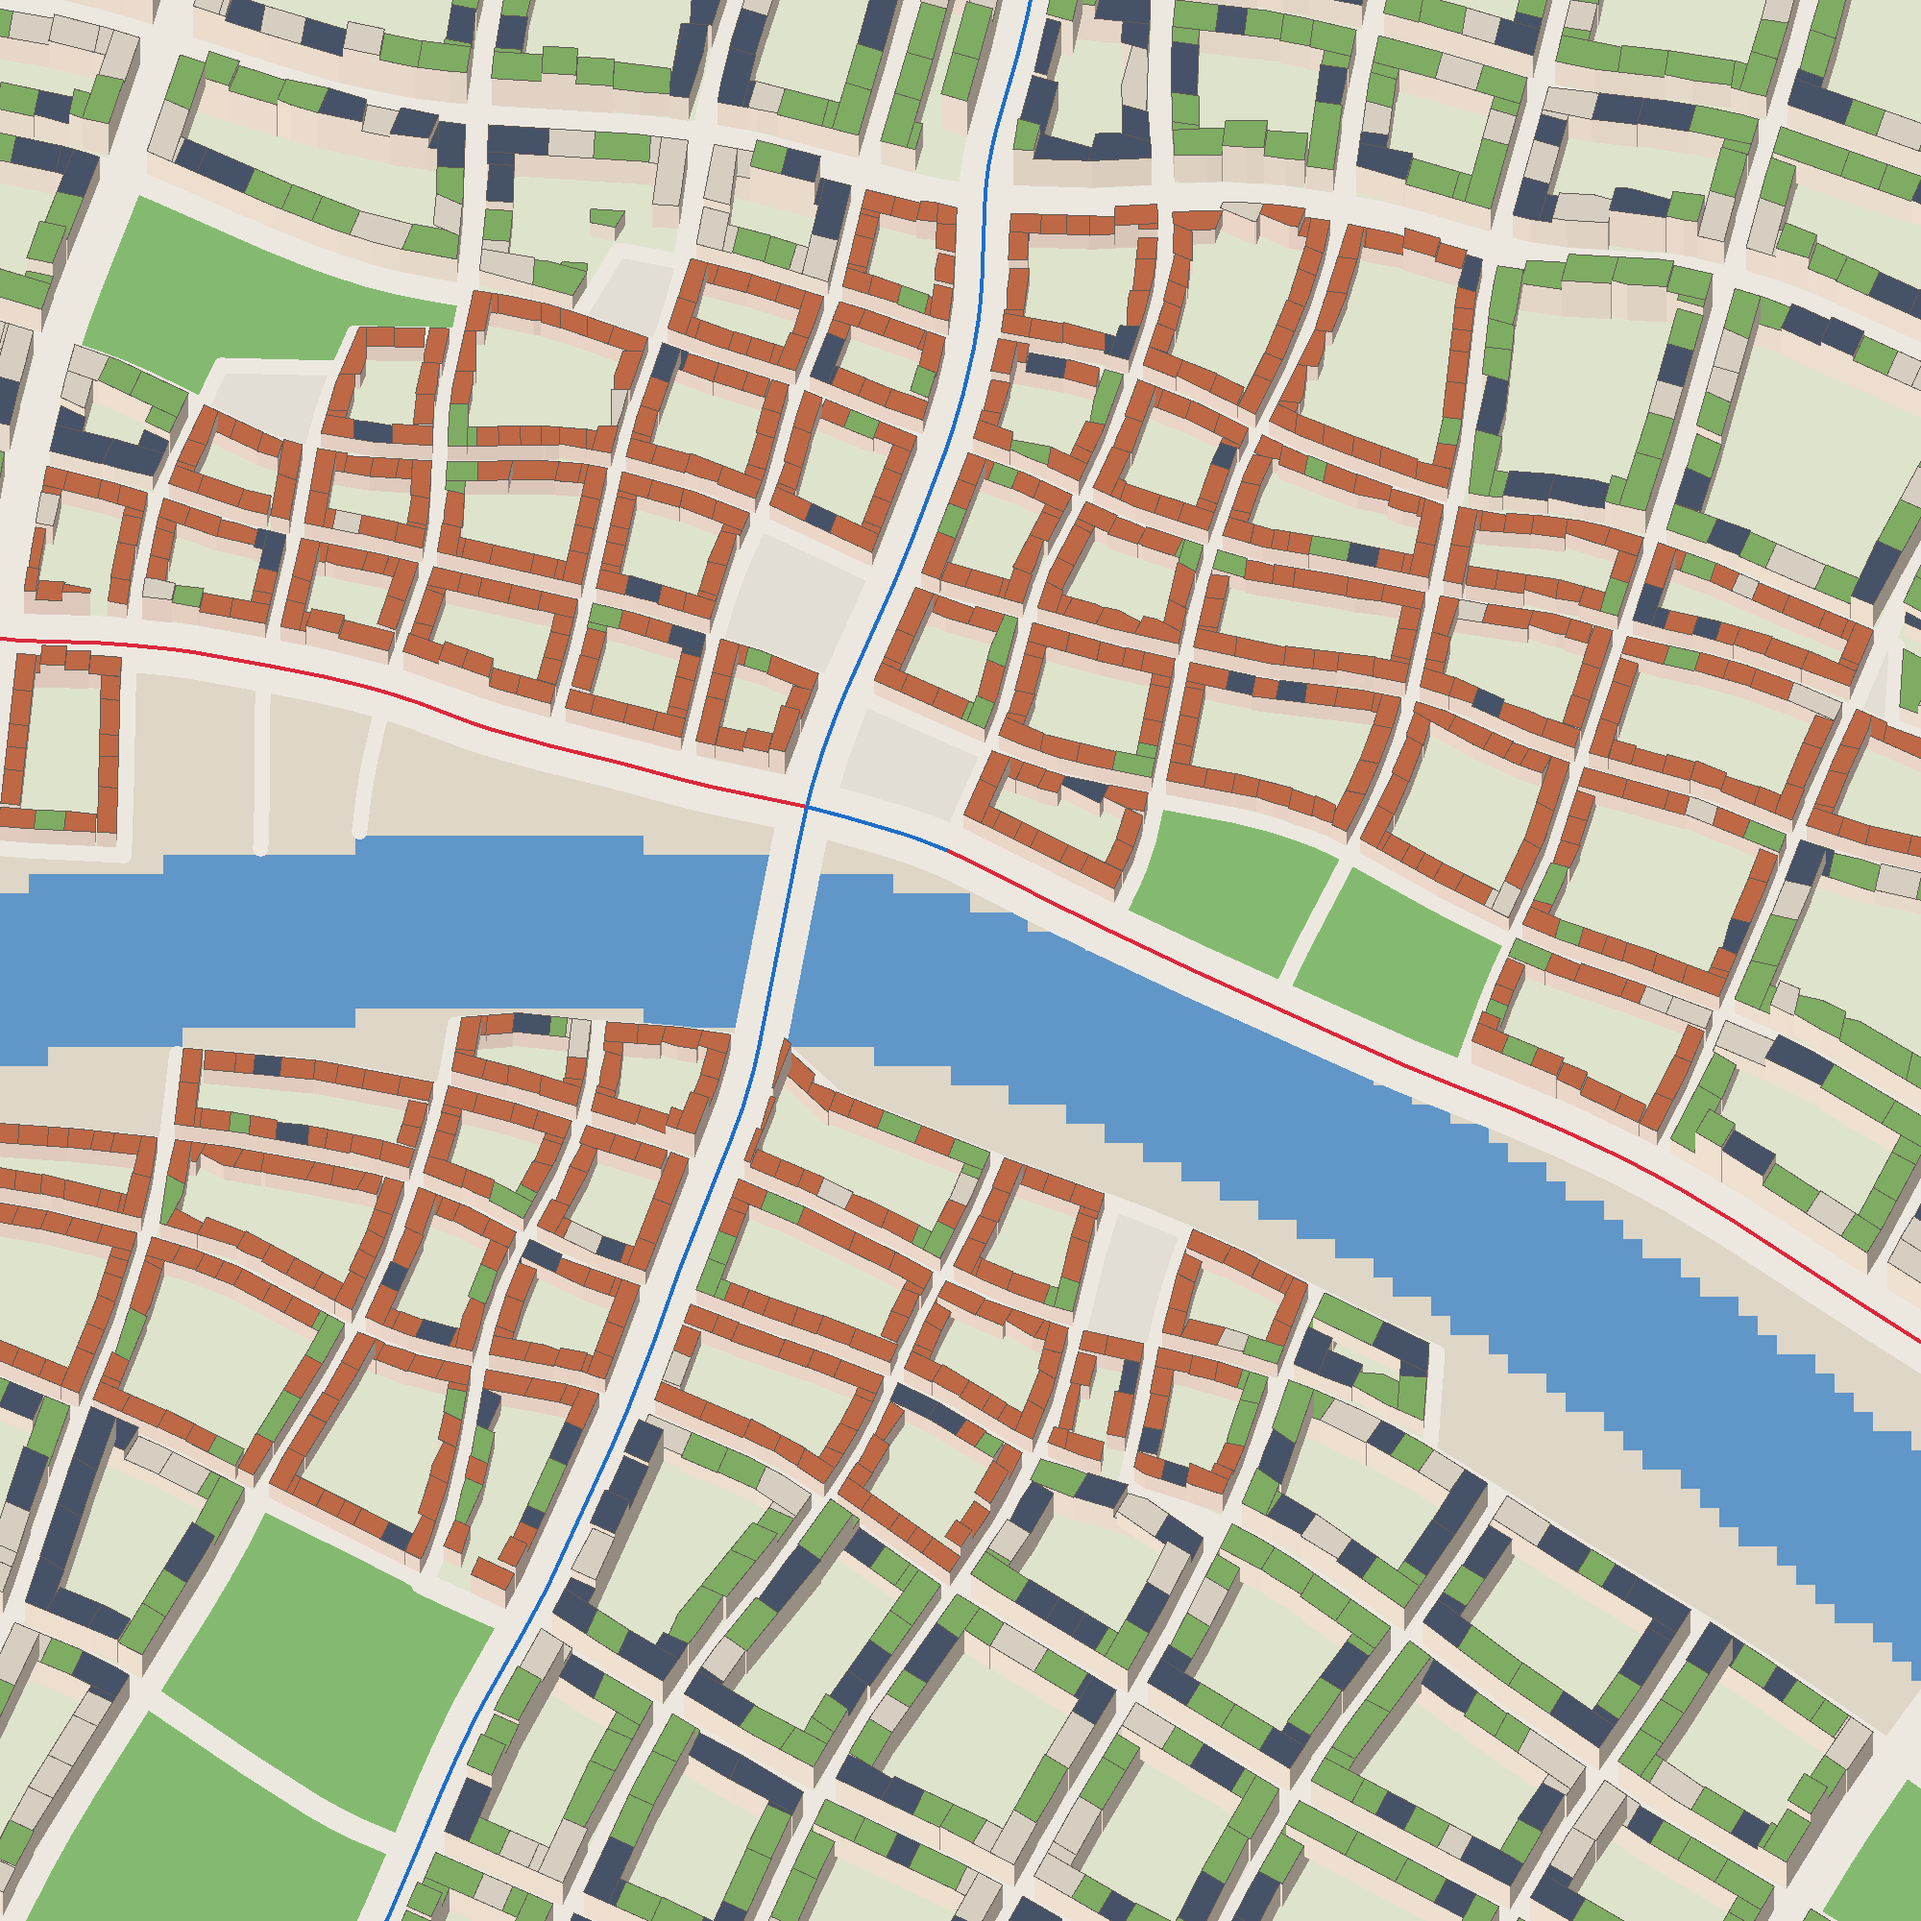
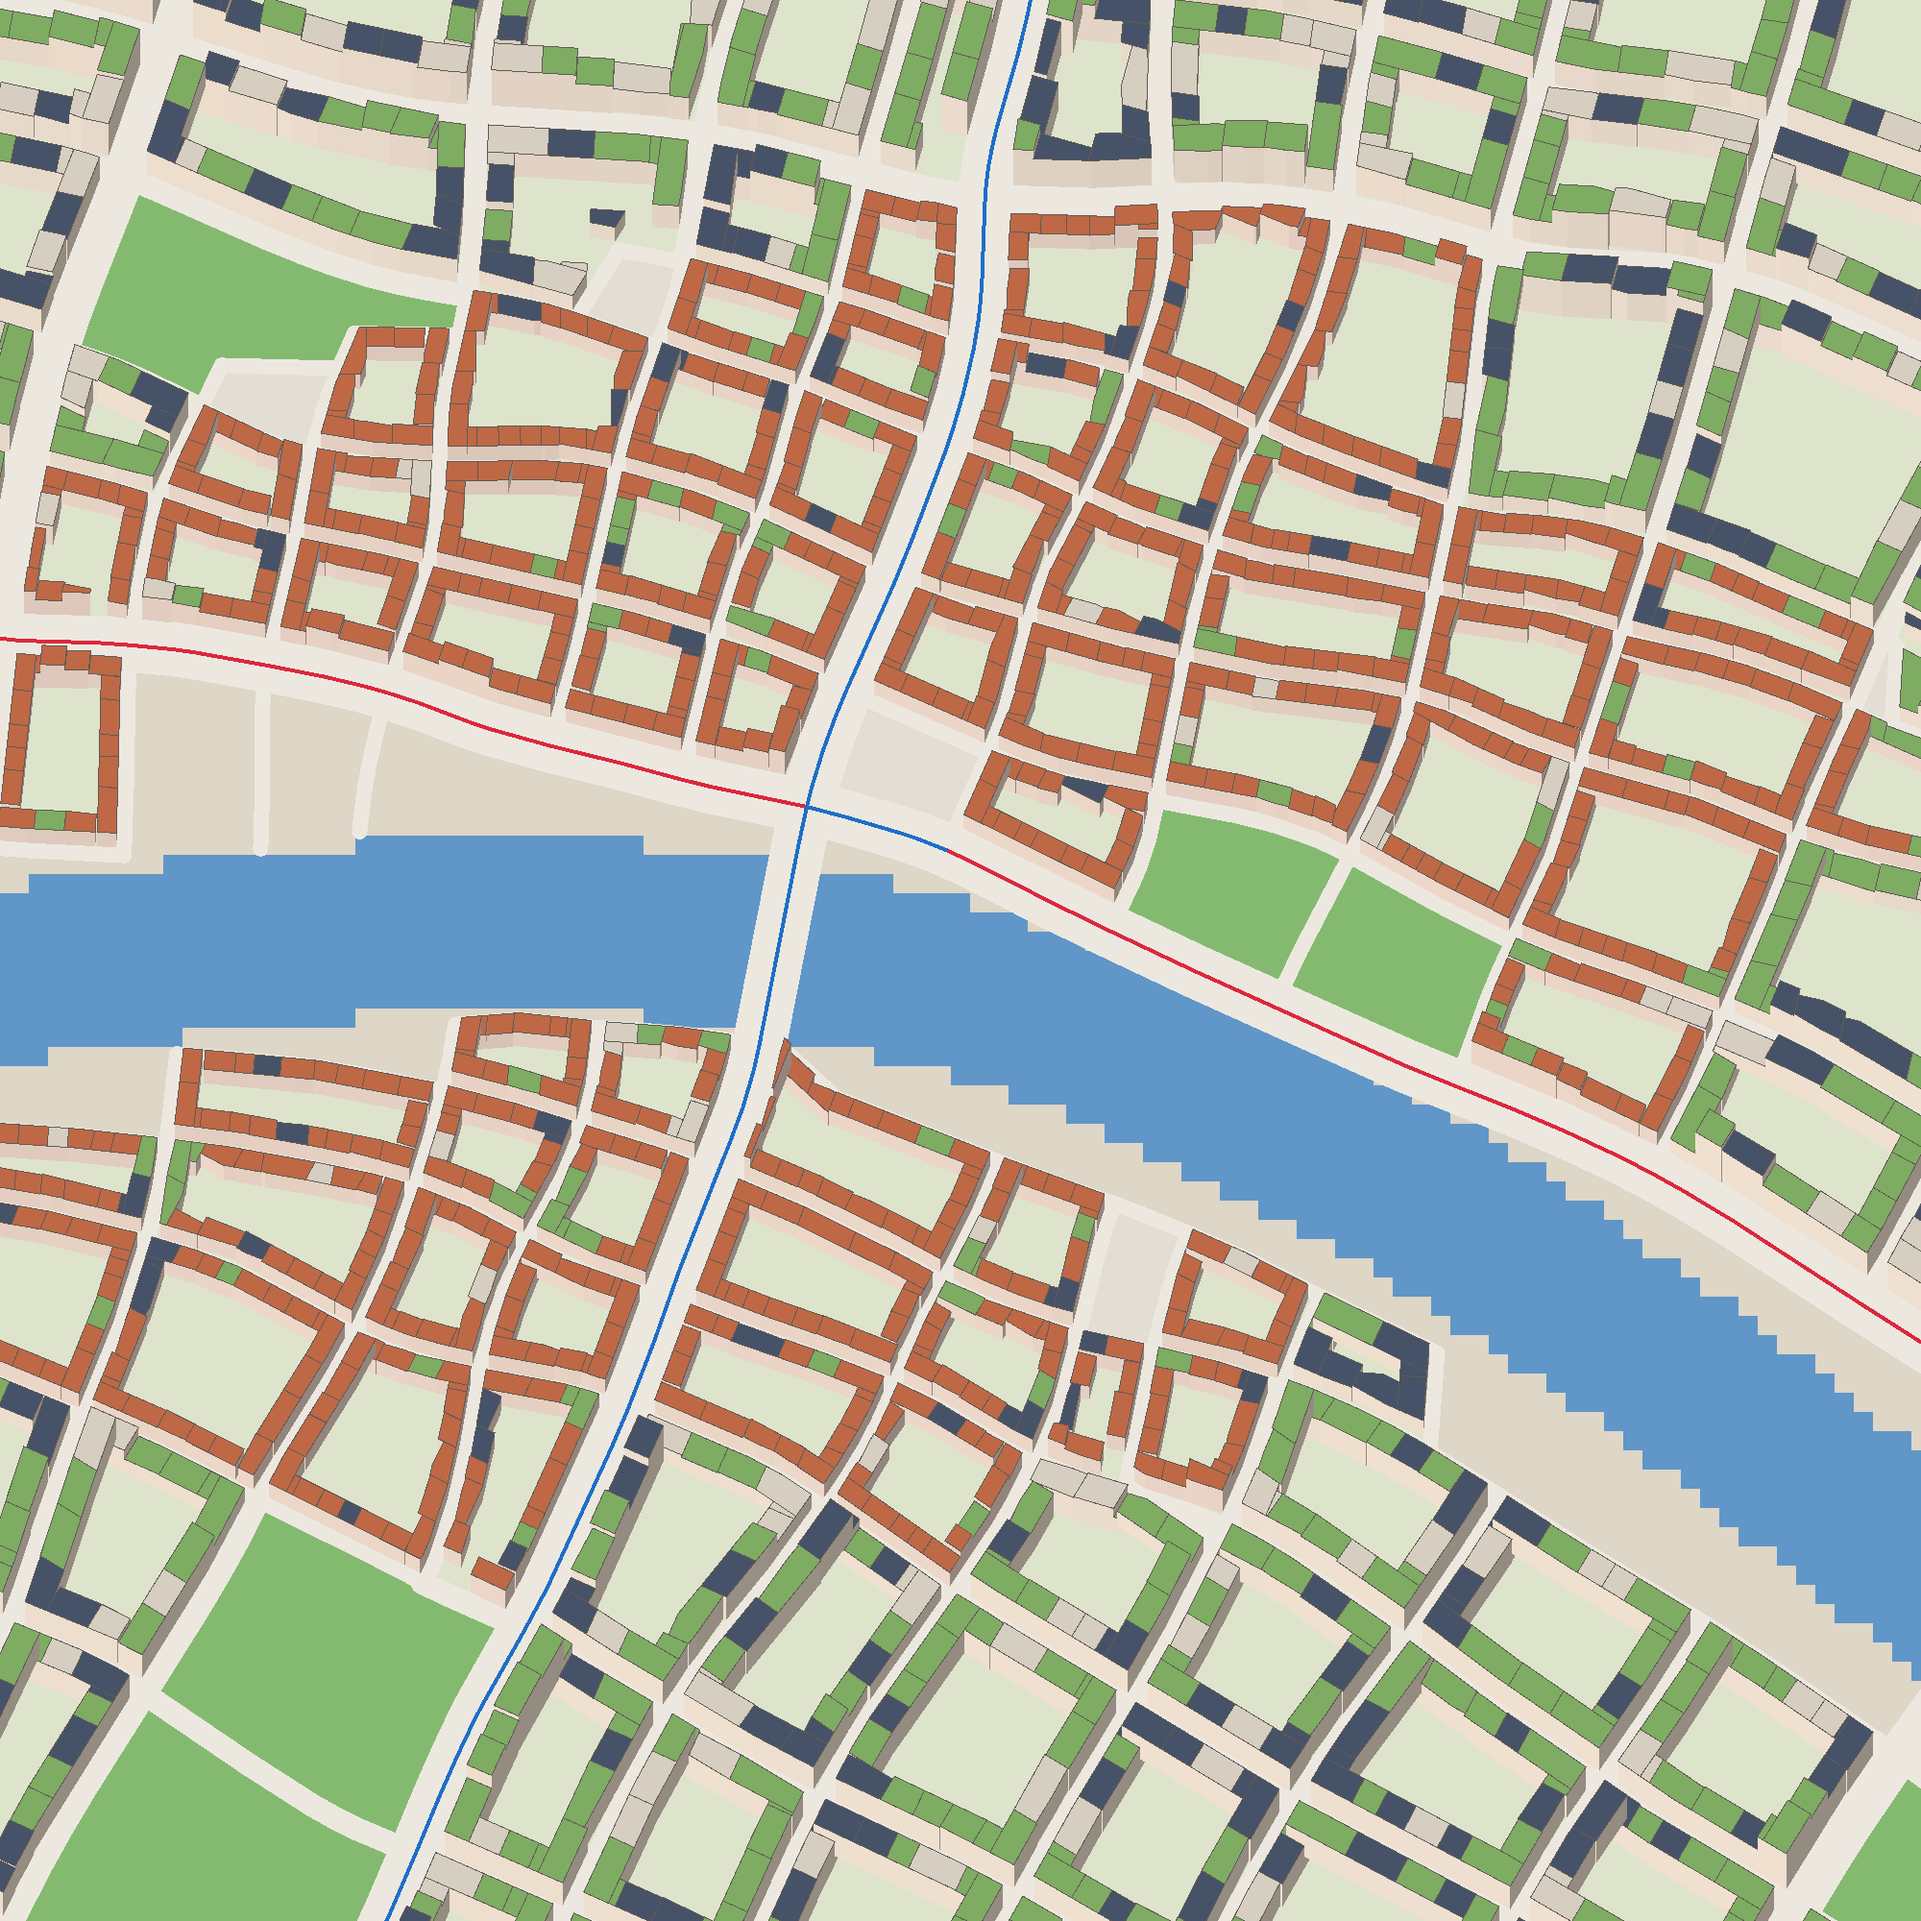
Squares: at most 1 ha and one to a place, an alley of planes round the large ones (#245)
The first Argens views showed a district's square and a landmark's side by side, one vast
paved expanse. A square is now at most 1 ha, and an anchor with a square within 120 m gets no
second one. Squares of 0.5 ha or more get a second row of trees 11 m inside the first (the
first row drawn towards the middle: inset's corner checks refuse many squares), and fountains
grow with their square (1.0 at 0.15 ha to 1.8 at 1 ha). Example: 12 squares, 12 877 masses.

diff --git a/crates/forge-procgen/src/city/trees.rs b/crates/forge-procgen/src/city/trees.rs
@@ -106,27 +106,41 @@ pub fn trees(site: &Site, plan: &CityPlan, seed: u64) -> Vec<Tree> {
         );
     }
     // Squares of 0.15 ha or more: a row of plane trees 3 m inside their building lines, every
-    // 10 m, the middle left open.
+    // 10 m, the middle left open; those of 0.5 ha or more a second row 11 m further in, an
+    // alley of planes round them (a Provençal cours).
     for b in plan
         .blocks
         .iter()
         .filter(|b| b.use_ == BlockUse::Square && b.area >= 1500.0)
     {
-        let Some(ring) = geom::inset(&b.buildable, 3.0) else {
+        let Some(outer) = geom::inset(&b.buildable, 3.0) else {
             continue;
         };
-        let mut closed = ring.clone();
-        closed.push(ring[0]);
-        for p in geom::resample(&closed, 10.0) {
-            if site.water_at(p) != LAND || junctions.any_within(p, 6.0, |_| false) {
-                continue;
+        let mut rings = vec![outer.clone()];
+        if b.area >= 5000.0 {
+            // The second row: the first drawn 11 m in towards the middle (a square is near
+            // convex; an inset's corner checks refuse many).
+            let c = geom::centroid(&outer);
+            let reach = outer.iter().map(|p| p.distance(c)).sum::<f64>() / outer.len() as f64;
+            if reach > 22.0 {
+                let k = 1.0 - 11.0 / reach;
+                rings.push(outer.iter().map(|&p| c + (p - c) * k).collect());
             }
-            out.push(Tree {
-                pos: p,
-                height: rng.range_f64(10.0, 14.0),
-                crown: rng.range_f64(3.2, 4.2),
-                setting: Setting::Street,
-            });
+        }
+        for ring in rings {
+            let mut closed = ring.clone();
+            closed.push(ring[0]);
+            for p in geom::resample(&closed, 10.0) {
+                if site.water_at(p) != LAND || junctions.any_within(p, 6.0, |_| false) {
+                    continue;
+                }
+                out.push(Tree {
+                    pos: p,
+                    height: rng.range_f64(10.0, 14.0),
+                    crown: rng.range_f64(3.2, 4.2),
+                    setting: Setting::Street,
+                });
+            }
         }
     }
     // Courtyards: a looser grid.

diff --git a/crates/forge-procgen/src/city/blocks.rs b/crates/forge-procgen/src/city/blocks.rs
@@ -242,9 +242,9 @@ fn distance_to_block(p: DVec2, block: &Block) -> f64 {
 }
 
 /// Squares (#245): the built block nearest each anchor (a district's centre, a landmark), within
-/// 150 m and at most 2 ha, becomes a square; and in old towns, blocks of 600–3 000 m² at least
-/// `spacing` metres from any other square, the small squares of a Mediterranean town. Returns
-/// how many blocks became squares.
+/// 150 m and at most 1 ha, becomes a square unless one already opens within 120 m; and in old
+/// towns, blocks of 600–3 000 m² at least `spacing` metres from any other square, the small
+/// squares of a Mediterranean town. Returns how many blocks became squares.
 pub fn add_squares(
     blocks: &mut [Block],
     anchors: &[DVec2],
@@ -253,10 +253,17 @@ pub fn add_squares(
 ) -> usize {
     let mut made = 0;
     for &anchor in anchors {
+        // One square to a place: none where one already opens within 120 m.
+        let near_one = blocks.iter().any(|b| {
+            b.use_ == BlockUse::Square && b.area >= 600.0 && b.centre.distance(anchor) < 120.0
+        });
+        if near_one {
+            continue;
+        }
         let nearest = blocks
             .iter()
             .enumerate()
-            .filter(|(_, b)| b.use_ == BlockUse::Built && b.area <= 20_000.0)
+            .filter(|(_, b)| b.use_ == BlockUse::Built && b.area <= 10_000.0)
             .map(|(i, b)| {
                 let d = if geom::contains(&b.polygon, anchor) {
                     0.0

diff --git a/demos/city-plan/src/lib.rs b/demos/city-plan/src/lib.rs
@@ -364,7 +364,15 @@ impl PlanScenario {
             .iter()
             .filter(|b| b.use_ == BlockUse::Square && b.area >= 1500.0)
             .filter(|b| geom::contains(&b.polygon, b.centre))
-            .map(|b| Mat4::from_translation(world(size, b.centre, 0.16)))
+            // Grander on grander squares: 1.0 at 0.15 ha to 1.8 at 1 ha.
+            .map(|b| {
+                let scale = (b.area.sqrt() / 55.0).clamp(1.0, 1.8) as f32;
+                Mat4::from_scale_rotation_translation(
+                    Vec3::splat(scale),
+                    glam::Quat::IDENTITY,
+                    world(size, b.centre, 0.16),
+                )
+            })
             .collect();
         if !fountains.is_empty() {
             kit_meshes.push(forge_geom::furniture::fountain());

diff --git a/docs/demos/city-plan.md b/docs/demos/city-plan.md
@@ -47,14 +47,14 @@ router, and `forge_core::dmath` does the trigonometry. Two runs give the same di
 |---|---|
 | Land | 14.3 km² |
 | Main roads / streets | 59 km / 149 km, 8 bridges |
-| Built blocks / parks / squares | 663 (mean 1.66 ha) / 48 / 16 |
-| Lots / blocks with a courtyard | 10 986 / 592 |
+| Built blocks / parks / squares | 667 (mean 1.66 ha) / 48 / 12 |
+| Lots / blocks with a courtyard | 11 048 / 596 |
 | Parks' share of the land | 10.5 % |
 | Built blocks with a 1 ha park within 300 m | 100 % |
 | Built blocks within 400 m of a tram stop | 45 % (two lines, no line added) |
 | Streets' share of the land | 21.5 % |
 | Tram lines | 7.8 km, 19 stops |
-| Masses / floor area | 12 804 / 18.2 km² (12 ms; floors capped by street width) |
+| Masses / floor area | 12 877 / 18.3 km² (12 ms; floors capped by street width) |
 
 | Stage | Time |
 |---|---|
@@ -282,12 +282,17 @@ landing. `--clock SECONDS` sets the service's clock for a capture.
 ![The old town's piazza](images/city-plan-piazza.png)
 
 *The old town's piazza at 18:00: paved in limestone, its fountain in the middle, plane trees
-round it, shops on three sides.* The block nearest each built district's centre and each
-landmark becomes a square (within 150 m, at most 2 ha). So do the old towns' blocks of
-600–3 000 m² that stand 180 m from any other square: their small squares. Squares are paved,
-with a row of trees every 10 m, 3 m inside their building lines, and a fountain in the middle
-of those of 0.15 ha or more (`furniture::fountain`). The example has 16 squares, slivers
-included, and 9 fountains.
+round it, shops on three sides.* Squares come from three rules:
+- the block nearest each built district's centre and each landmark becomes a square (within
+  150 m, at most 1 ha), unless one already opens within 120 m;
+- so do the old towns' blocks of 600–3 000 m² that stand 180 m from any other square: their
+  small squares;
+- slivers too small to build on.
+
+Squares are paved, with a row of trees every 10 m, 3 m inside their building lines. Those of
+0.5 ha or more get a second row 11 m further in, an alley of planes (a Provençal *cours*). A
+fountain stands in the middle of those of 0.15 ha or more (`furniture::fountain`), grander on
+grander squares. The example has 12 squares, slivers included.
 
 ## Tiled roofs in the old towns
 
